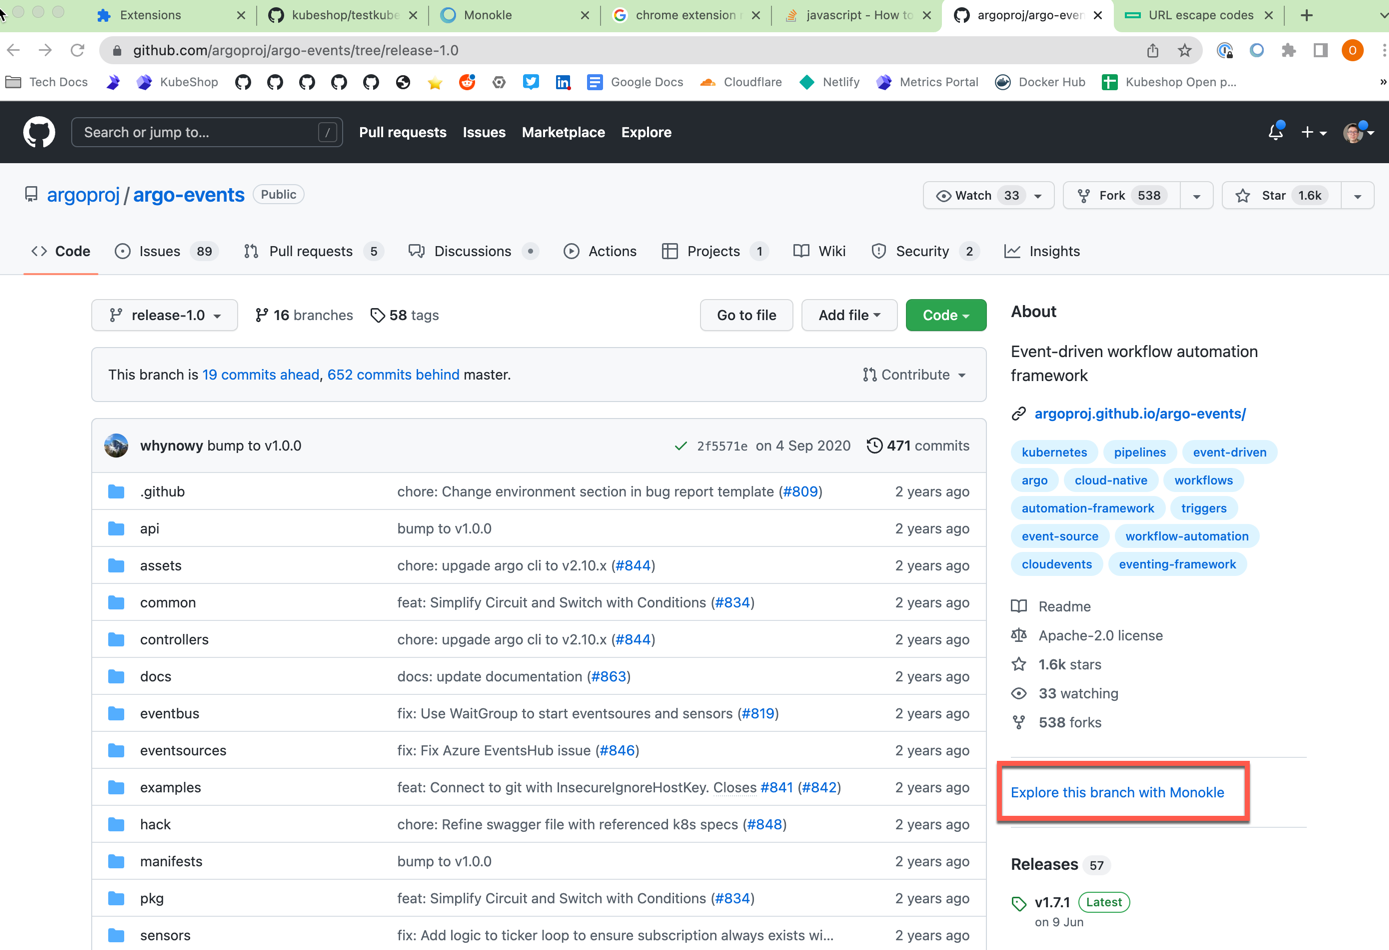
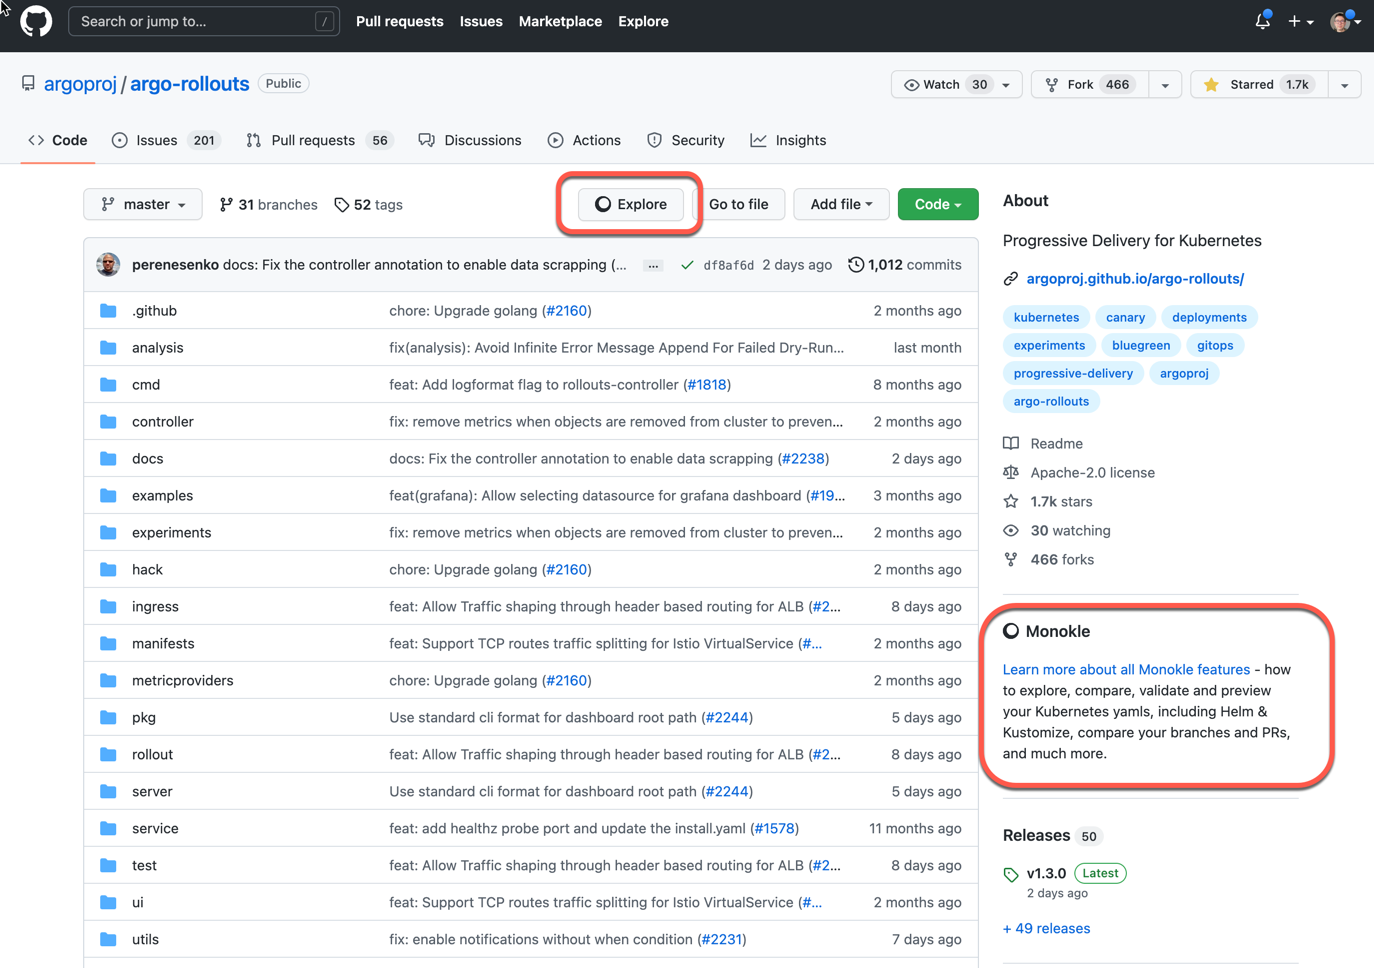
Wording and image update

diff --git a/extension/extension.js b/extension/extension.js
@@ -23,9 +23,9 @@ function insertExplorePanel() {
     let gridDiv = document.createElement('div');
     gridDiv.className = 'BorderGrid-cell';
     gridDiv.id = 'monokle-info-insert';
-    gridDiv.innerHTML = "<h2 class=\"mb-3 h4\">" + svg + " Monokle</h2><p><a href=''>Learn more about all your Monokle Plug-in features</a> - " +
-        "how to explore, validate and preview your yamls, including Helm & Customize, " +
-        "compare your PR to original branches and more.</p>";
+    gridDiv.innerHTML = "<h2 class=\"mb-3 h4\">" + svg + " Monokle</h2><p><a target='_blank' href='https://monokle.io'>Learn more about all Monokle features</a> - " +
+        "how to explore, compare, validate and preview your Kubernetes yamls, including Helm & Kustomize, " +
+        "compare your branches and PRs, and much more.</p>";
 
     try {
         let repoInfo = document.querySelectorAll('.BorderGrid-row');
